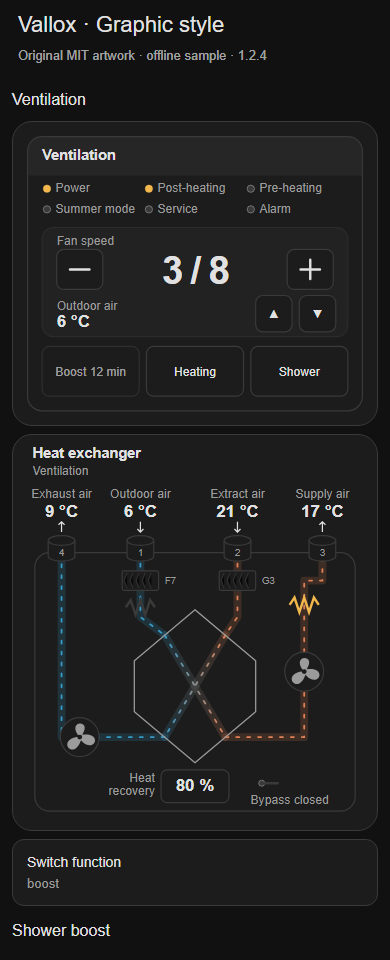
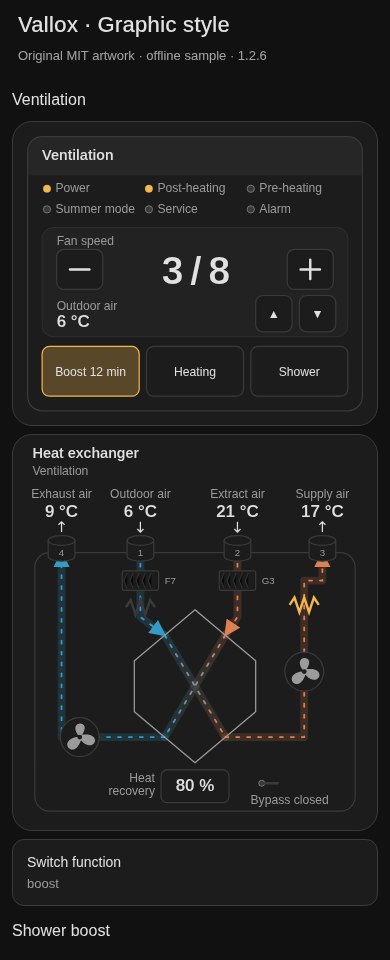
Vallox Dashboard 1.2.6: respect reduced motion with flow cues, show active buttons (#8)
The airflow and fans were stopping whenever the OS asked for reduced motion.
Windows reports that when Animation effects or "Animate controls and elements
inside windows" is off; Android does the same for Remove animations and some
battery-saver modes. Keep auto as the default, draw static flow-direction
arrows while motion is off, and add animation: on|off to force the behaviour.

Show the controller Boost, Heating and Shower buttons in the 1.2.1 flat
on-state when those modes are active (boost switch or remaining time,
climate heat, and the shower package helper or timer).

diff --git a/dist/vallox-dashboard.js b/dist/vallox-dashboard.js
@@ -8,7 +8,7 @@
  *   - vallox (Home Assistant core, Vallox MV units over the network)
  * Built-in cards plus original inline SVG graphics. MIT licensed.
  */
-const VALLOX_DASHBOARD_VERSION = "1.2.5";
+const VALLOX_DASHBOARD_VERSION = "1.2.6";
 
 const TEXT = {
   en: {
@@ -430,8 +430,13 @@ function graphicModel(hass, config = {}, readout = 0) {
     && Number.isInteger(p.minutes) && p.minutes > 0 && p.minutes <= 120);
   const boost = on("boost_switch") || number("boost_remaining") > 0;
   const usableClimate = graphicAvailable(state("climate"));
+  const animation = config.animation === "on" || config.animation === "off" ? config.animation : "auto";
+  const reduceMotion = typeof matchMedia === "function" && matchMedia("(prefers-reduced-motion: reduce)").matches;
   return { unit, e, t, g, config, value, number, on, flag, anyFlag, formatted, max, modes, level, power, alarm, efficiency,
-    readouts, selected, preset, boost, hass,
+    readouts, selected, preset, boost, hass, animation,
+    animate: animation === "on" || (animation === "auto" && !reduceMotion),
+    heating: value("climate") === "heat",
+    shower: on("shower_active") || value("shower_timer") === "active",
     fanPercentage: graphicAvailable(state("fan")) && graphicNumber(state("fan")?.attributes?.percentage) !== null
       ? `${graphicNumber(state("fan").attributes.percentage)} %` : null,
     canFan: usableClimate && level !== null && modes.length > 0,
@@ -446,7 +451,7 @@ const GRAPHIC_CSS = `
   :host { display:block; font-family:var(--primary-font-family, inherit); color:var(--primary-text-color,#212121);
     --line:var(--divider-color,#e0e0e0); --muted:var(--secondary-text-color,#727272);
     --surface:var(--ha-card-background,var(--card-background-color,#fff));
-    --active:var(--state-active-color,#e69b28); --cold:#369ac7; --warm:#df8054; }
+    --active:var(--state-active-color,#e69b28); --cold:#369ac7; --warm:#df8054; --speed:1.4s; }
   ha-card { display:block; box-sizing:border-box; background:var(--surface); border-radius:20px; overflow:hidden;
     border:1px solid var(--line); box-shadow:none; container-type:inline-size;
     width:100%; max-width:600px; margin-inline:auto; }
@@ -454,6 +459,7 @@ const GRAPHIC_CSS = `
   text { fill:currentColor; font-size:20px; } .muted { fill:var(--muted); font-size:20px; }
   .duct { fill:var(--surface); stroke:var(--line); stroke-width:2; }
   .body,.button { fill:var(--surface); stroke:var(--line); stroke-width:2; }
+  .button.on { fill:var(--active); fill-opacity:.28; stroke:var(--active); }
   .strip { fill:var(--line); opacity:.35; } .lcd { fill:var(--line); fill-opacity:.22; stroke:var(--line); }
   .big { font-size:64px; font-weight:600; letter-spacing:-3px; }
   .title { font-size:24px; font-weight:600; } .value { font-size:28px; font-weight:600; }
@@ -462,11 +468,14 @@ const GRAPHIC_CSS = `
   .led { fill:var(--line); stroke:var(--muted); } .lit { fill:var(--active); stroke:var(--active); }
   .warning { fill:var(--error-color,#db625a); } .button { cursor:pointer; }
   [role=button]:focus .button { stroke:var(--primary-color,#369ac7); stroke-width:3; }
-  [aria-disabled=true] { opacity:.65; cursor:default; } [role=button] text { pointer-events:none; }
+  [aria-disabled=true] { cursor:default; } [aria-disabled=true]:not([aria-pressed=true]) { opacity:.65; }
+  [role=button] text { pointer-events:none; }
   .pipe { fill:none; stroke-width:13; stroke-linecap:round; stroke-linejoin:round; opacity:.18; }
-  .flow { fill:none; stroke-width:3; stroke-dasharray:5 13; stroke-linecap:round; animation:flow var(--speed) linear infinite; }
+  .flow { fill:none; stroke-width:3; stroke-dasharray:5 13; stroke-linecap:round; stroke-dashoffset:0;
+    animation:flow var(--speed) linear infinite; }
   .cold { stroke:var(--cold); } .warm { stroke:var(--warm); }
-  .stopped { animation:none!important; opacity:.28; } .spin { animation:spin var(--speed) linear infinite; }
+  .stopped { animation:none!important; opacity:.28; } .static-cue { animation:none!important; }
+  .spin { transform-box:fill-box; transform-origin:center; animation:spin var(--speed) linear infinite; }
   .heater { stroke:var(--line); fill:none; stroke-width:4; } .hot { stroke:var(--active); }
   .cell { fill:var(--surface); stroke:var(--line); stroke-width:2; }
   .fin { stroke:var(--line); stroke-width:2; opacity:.7; } .badge { fill:var(--line); fill-opacity:.35; }
@@ -476,14 +485,22 @@ const GRAPHIC_CSS = `
   .recovery-label { fill:var(--muted); font-size:20px; }
   .error { padding:0 20px 12px; color:var(--error-color,#db625a); font-size:12px; }
   .error:empty { display:none; }
-  @keyframes flow { to { stroke-dashoffset:-36; } } @keyframes spin { to { transform:rotate(360deg); } }
-  @media(prefers-reduced-motion:reduce) { .flow,.spin { animation:none!important; } }
+  @keyframes flow { from { stroke-dashoffset:0; } to { stroke-dashoffset:-36; } }
+  @keyframes spin { from { transform:rotate(0deg); } to { transform:rotate(360deg); } }
+  @media(prefers-reduced-motion:reduce) {
+    :host(:not([data-animation="on"])) .flow, :host(:not([data-animation="on"])) .spin { animation:none!important; }
+  }
+  :host([data-animation="off"]) .flow, :host([data-animation="off"]) .spin { animation:none!important; }
+  :host([data-animation="on"]) .flow { animation:flow var(--speed) linear infinite !important; }
+  :host([data-animation="on"]) .spin { animation:spin var(--speed) linear infinite !important; }
+  :host([data-animation="on"]) .stopped, :host([data-animation="on"]) .static-cue { animation:none!important; }
 `;
 const svgText = (x, y, text, cls = "", anchor = "start") =>
   `<text x="${x}" y="${y}" class="${cls}" text-anchor="${anchor}">${escapeGraphic(text)}</text>`;
-function graphicButton(x, y, w, h, label, action, disabled = false, glyph = label) {
-  return `<g role="button" tabindex="${disabled ? -1 : 0}" aria-label="${escapeGraphic(label)}" aria-disabled="${disabled}" data-action="${action}">
-    <rect class="button" x="${x}" y="${y}" width="${w}" height="${h}" rx="12"/>
+function graphicButton(x, y, w, h, label, action, disabled = false, glyph = label, pressed = null) {
+  return `<g role="button" tabindex="${disabled ? -1 : 0}" aria-label="${escapeGraphic(label)}" aria-disabled="${disabled}"${
+    pressed === null ? "" : ` aria-pressed="${pressed}"`} data-action="${action}">
+    <rect class="button${pressed ? " on" : ""}" x="${x}" y="${y}" width="${w}" height="${h}" rx="12"/>
     ${["increase", "decrease"].includes(action)
       ? `<path class="control-symbol" d="M${x + w / 2 - 16} ${y + h / 2}h32${action === "increase" ? `M${x + w / 2} ${y + h / 2 - 16}v32` : ""}"/>`
       : svgText(x + w / 2, y + h / 2 + 7, glyph, "", "middle")}</g>`;
@@ -529,12 +546,12 @@ function renderControllerSvg(m) {
   content += '</g>';
   const actions = [];
   if (e.boost_switch) actions.push([m.boost ? `${g.boost} ${e.boost_remaining && m.config.show?.boost_remaining !== false ? m.formatted("boost_remaining", ` ${g.minutes}`) : g.active}` : g.boost, "boost",
-    m.boost || !graphicAvailable(m.hass?.states[e.boost_switch])]);
-  if (m.canHeat) actions.push([g.heat_action, "heat", false]);
+    m.boost || !graphicAvailable(m.hass?.states[e.boost_switch]), m.boost]);
+  if (m.canHeat) actions.push([g.heat_action, "heat", false, m.heating]);
   if (e.shower_boost && m.preset && m.config.show?.shower_boost !== false) actions.push([g.shower_action, "shower",
-    !graphicAvailable(m.hass.states[e.shower_boost])]);
-  content += '<g class="actions">' + actions.map(([label, action, disabled]) =>
-    graphicButton(48 + actions.findIndex((item) => item[1] === action) * 172, actionsY, 160, 82, label, action, disabled)).join("") + '</g>';
+    !graphicAvailable(m.hass.states[e.shower_boost]), m.shower]);
+  content += '<g class="actions">' + actions.map(([label, action, disabled, pressed]) =>
+    graphicButton(48 + actions.findIndex((item) => item[1] === action) * 172, actionsY, 160, 82, label, action, disabled, label, pressed)).join("") + '</g>';
   return graphicSvg(g.controller, content, m.duration, height);
 }
 
@@ -544,10 +561,18 @@ function renderExchangerSvg(m) {
   let content = svgText(32, 38, g.exchanger, "title") + svgText(32, 66, m.unit.name, "muted")
     + '<rect class="body unit-casing" x="36" y="194" width="528" height="426" rx="24"/>'
     + '<defs><linearGradient id="extract-gradient" gradientUnits="userSpaceOnUse" x1="350" y1="330" x2="250" y2="498"><stop stop-color="var(--warm)"/><stop offset="1" stop-color="var(--cold)"/></linearGradient>'
-    + '<linearGradient id="supply-gradient" gradientUnits="userSpaceOnUse" x1="250" y1="330" x2="350" y2="498"><stop stop-color="var(--cold)"/><stop offset="1" stop-color="var(--warm)"/></linearGradient></defs>'
+    + '<linearGradient id="supply-gradient" gradientUnits="userSpaceOnUse" x1="250" y1="330" x2="350" y2="498"><stop stop-color="var(--cold)"/><stop offset="1" stop-color="var(--warm)"/></linearGradient>'
+    + (m.animate ? "" : '<marker id="flow-arrow-cold" markerWidth="9" markerHeight="9" refX="8" refY="4.5" orient="auto"><path d="M0 0L9 4.5L0 9Z" fill="var(--cold)"/></marker><marker id="flow-arrow-warm" markerWidth="9" markerHeight="9" refX="8" refY="4.5" orient="auto"><path d="M0 0L9 4.5L0 9Z" fill="var(--warm)"/></marker>')
+    + '</defs>'
     + '<path data-component="cell" class="cell" d="' + cell + '"/>';
-  const stream = (name, path, color, motor, inCell = false, extra = "") => '<g style="' + (inCell ? 'stroke:url(#' + name + '-gradient)' : '') + '"><path class="pipe ' + color + '" d="' + path + '"/>'
-    + '<path data-' + (inCell ? 'cell-stream' : 'stream') + '="' + name + '" ' + extra + ' class="flow ' + color + ' ' + (m.running(motor) ? '' : 'stopped') + '" d="' + path + '"/></g>';
+  const stream = (name, path, color, motor, inCell = false, extra = "") => {
+    const running = m.running(motor);
+    const cue = !m.animate && running && !inCell && (color === "cold" || color === "warm");
+    return '<g style="' + (inCell ? 'stroke:url(#' + name + '-gradient)' : '') + '"><path class="pipe ' + color + '" d="' + path + '"/>'
+      + '<path data-' + (inCell ? 'cell-stream' : 'stream') + '="' + name + '" ' + extra
+      + ' class="flow ' + color + ' ' + (running ? (m.animate ? "" : "static-cue") : "stopped") + '"'
+      + (cue ? ' marker-end="url(#flow-arrow-' + color + ')"' : "") + ' d="' + path + '"/></g>';
+  };
   // Separate exterior lanes; every component is centred on its own continuous stream.
   content += stream("outdoor", bypass ? "M210 194V300H170" : "M210 194V300L250 330", "cold", "motor_in")
     + stream("extract", "M370 194V300L350 330", "warm", "motor_out")
@@ -574,7 +599,7 @@ function renderExchangerSvg(m) {
   if (e.outdoor) content += filter("F7",210,240,"supply");
   if (e.extract) content += filter("G3",370,240,"extract");
   const fan = (role, x, y, streamName) => !e[role] ? "" : '<g data-fan="' + role + '" data-on-stream="' + streamName + '" transform="translate(' + x + ' ' + y + ')"><circle class="body" r="32" fill="var(--surface)"/>'
-    + '<g data-motor="' + role + '" class="' + (m.running(role) ? 'spin' : 'stopped') + '"><path fill="var(--muted)" d="M0 0C-24-28 22-30 4-4C40-9 24 30 2 5C-10 40-38 6-5 0Z"/></g><circle r="4" fill="var(--surface)"/></g>';
+    + '<g data-motor="' + role + '" class="' + (m.running(role) ? (m.animate ? "spin" : "") : "stopped") + '"><path fill="var(--muted)" d="M0 0C-24-28 22-30 4-4C40-9 24 30 2 5C-10 40-38 6-5 0Z"/></g><circle r="4" fill="var(--surface)"/></g>';
   content += fan("motor_in",480,390,"supply") + fan("motor_out",110,498,"extract")
     + '<path class="cell-outline" d="' + cell + '"/>';
   const heater = (role, x, y) => !e[role] ? "" : '<g data-on-stream="supply"><title>' + escapeGraphic(t[role]) + '</title><path data-heater="' + role + '" class="heater ' + (m.on(role) ? 'hot' : '') + '" d="M' + (x-24) + ' ' + y + 'l8 -12 8 24 8 -24 8 24 8 -24 8 12"/></g>';
@@ -625,7 +650,17 @@ class ValloxGraphicCard extends HTMLElement {
     const m = graphicModel(this._hass, this._config, this._readout);
     return m;
   }
+  _watchMotion() {
+    if (this._mq || typeof matchMedia !== "function") return;
+    this._mq = matchMedia("(prefers-reduced-motion: reduce)");
+    this._onMotion = () => { this._signature = null; if (this._hass) this.hass = this._hass; };
+    if (this._mq.addEventListener) this._mq.addEventListener("change", this._onMotion);
+    else this._mq.addListener(this._onMotion);
+  }
   _render(m = this._model()) {
+    this._watchMotion();
+    if (typeof this.setAttribute === "function") this.setAttribute("data-animation", m.animation);
+    if (this.style && typeof this.style.setProperty === "function") this.style.setProperty("--speed", m.duration);
     const focused = this.shadowRoot.activeElement?.getAttribute("data-action");
     this.shadowRoot.innerHTML = `<style>${GRAPHIC_CSS}</style><ha-card>${
       this._config.view === "controller" ? renderControllerSvg(m) : renderExchangerSvg(m)
@@ -682,6 +717,7 @@ function graphicOverview(hass, u, t, config) {
     ...(view === "exchanger" ? { show_status: show.controller === false } : {}),
     entities: { ...Object.fromEntries(Object.keys(PACKAGE_ENTITIES).map((r) => [r, null])), ...u.e }, show: { ...show },
     ...(config.shower_boost_presets ? { shower_boost_presets: config.shower_boost_presets } : {}),
+    ...(config.animation === "on" || config.animation === "off" ? { animation: config.animation } : {}),
   }));
   // Pair consecutive half-width entity tiles within each row group. Other cards
   // end the group and must never acquire tile grid options (especially headings).

diff --git a/tools/render/index.html b/tools/render/index.html
@@ -22,7 +22,7 @@
   .heading { font-size:16px; margin:8px 0 4px; }
   #actions { font-size:12px; margin:16px 6px; }
 </style>
-<header><h1>Vallox · Graphic style</h1><p>Original MIT artwork · offline sample · 1.2.5</p></header>
+<header><h1>Vallox · Graphic style</h1><p>Original MIT artwork · offline sample · 1.2.6</p></header>
 <main id="cards"></main><div id="actions" role="status"></div>
 <script src="sample-data.js"></script>
 <script src="../../dist/vallox-dashboard.js"></script>
@@ -37,9 +37,18 @@
   hass.callService = async (...args) => { document.querySelector("#actions").textContent = JSON.stringify(args); };
   if (params.get("variant") === "bypass") hass.states["binary_sensor.ventilation_summer_mode"].state = "on";
   if (params.get("variant") === "stopped") hass.states["binary_sensor.ventilation"].state = "off";
+  if (params.get("variant") === "active") {
+    hass.states["switch.ventilation_switch"].state = "on";
+    hass.states["sensor.ventilation_boost_remaining"].state = "12";
+    hass.states["climate.ventilation"].state = "heat";
+    hass.states["input_boolean.vallox_shower_boost_active"].state = "on";
+    hass.states["timer.vallox_shower_boost"].state = "active";
+  }
+  const animation = ["on", "off"].includes(params.get("animation")) ? params.get("animation") : undefined;
   // Render the strategy's own leading cards, through the next group heading.
-  const configs = params.has("view") ? [{type:"custom:vallox-graphic-card",view:params.get("view"),grid_options:{columns:12,rows:"auto"}}]
-    : window.valloxDashboard.buildSection(hass, {style:"graphic",section:"overview"}).cards;
+  const configs = params.has("view")
+    ? [{type:"custom:vallox-graphic-card",view:params.get("view"),grid_options:{columns:12,rows:"auto"},...(animation?{animation}:{})}]
+    : window.valloxDashboard.buildSection(hass, {style:"graphic",section:"overview",...(animation?{animation}:{})}).cards;
   let graphics = 0;
   for (const config of configs) {
     const graphic = config.type === "custom:vallox-graphic-card";

diff --git a/README.md b/README.md
@@ -4,7 +4,7 @@
 [![Release](https://img.shields.io/github/v/release/silviuk/vallox-dashboard.svg)](https://github.com/silviuk/vallox-dashboard/releases)
 [![Validate](https://github.com/silviuk/vallox-dashboard/actions/workflows/validate.yml/badge.svg)](https://github.com/silviuk/vallox-dashboard/actions/workflows/validate.yml)
 
-A Lovelace UI for **Vallox ventilation units** (MVHR / heat-recovery ventilation). Current release: **1.2.5**.
+A Lovelace UI for **Vallox ventilation units** (MVHR / heat-recovery ventilation). Current release: **1.2.6**.
 
 It ships as **section, view and dashboard strategies** under `custom:vallox-ventilation`. The UI discovers your entities and skips anything missing or disabled, so there is nothing you have to wire up by hand. The default style uses built-in Home Assistant cards (tile, heading, button, history-graph, markdown). An opt-in graphic style adds one bundled custom card with original inline SVG artwork.
 
@@ -34,7 +34,7 @@ Supported integrations (auto-discovered):
 - **Temperature flow strip:** outdoor → supply, heat recovery, extract → exhaust, when all four temperatures exist. Defaults on for units that already expose 1.2 extras; older units keep their original layout unless you opt in.
 - **Optional shower boost:** timed fan-level buttons, plus countdown and cancel while active, when the package entities exist.
 - **Optional auto humidity boost:** enable toggle and helper tiles when those helpers exist.
-- **Graphic style (1.2.5):** digital controller panel and heat-exchanger diagram (see below).
+- **Graphic style (1.2.6):** digital controller panel and heat-exchanger diagram (see below).
 - English and German labels, taken from your Home Assistant language. Light and dark themes follow HA CSS variables.
 
 ## Installation
@@ -98,6 +98,7 @@ All options are optional and work for every strategy type.
 | `entities` | auto | Override or add entities by role, e.g. `outdoor: sensor.my_outdoor_temp`. Set a role to `null` to hide it. |
 | `show` | see below | Turn each group off independently. Existing groups are unaffected. |
 | `shower_boost_presets` | 15 min L6, 15 min L7, 30 min L6, 30 min L7 | List of `{minutes, level}` objects. Whole minutes 1–120 and fan levels 1–8; invalid entries are skipped. `[]` removes preset buttons. Your script must support the chosen values. |
+| `animation` | `auto` | Graphic style only. `auto` plays the airflow and fan animation unless the device asks for reduced motion; `on` always plays it; `off` never does and shows static flow-direction arrows instead. |
 
 Roles for `entities`: `climate`, `fan`, `boost_switch`, `switch_type`, `profile`, `profile_duration`, `fan_speed`,
 `outdoor`, `supply`, `extract`, `exhaust`, `supply_cell`, `efficiency`, `humidity`, `humidity_2`, `co2`,
@@ -209,12 +210,13 @@ You can also generate one for your own entities in the browser console of your d
 
 ## Graphic style
 
-Add `style: graphic` to any section, view or dashboard strategy (1.2.0+; phone layout and artwork updated in 1.2.3; neutral gray palette in 1.2.4; wide-layout animation size in 1.2.5):
+Add `style: graphic` to any section, view or dashboard strategy (1.2.0+; phone layout and artwork updated in 1.2.3; neutral gray palette in 1.2.4; wide-layout size cap in 1.2.5; tablet animation option and active buttons in 1.2.6):
 
 ```yaml
 strategy:
   type: custom:vallox-ventilation
   style: graphic
+  animation: auto    # auto | on | off
   show:
     controller: true
     exchanger: true
@@ -225,6 +227,7 @@ Both graphics are also available directly, using the same resource:
 ```yaml
 type: custom:vallox-graphic-card
 view: controller   # or exchanger
+# animation: auto            # auto | on | off
 # device_id: your_device_id
 # name: Ventilation
 # show_status: true          # exchanger only; default true
@@ -245,16 +248,19 @@ The card picker lists **Vallox graphic**; change `view` in YAML to select the ex
 
 ### Digital controller
 
-The 1.2.5 controller keeps the 1.2.4 neutral gray surfaces with the 1.2.3 flat panel, header strip, LCD and rounded rectangular buttons, and the full-width phone sizing introduced in 1.2.2. On tablets and laptops the drawing is centred and capped at 600 px so the whole panel stays visible.
+The 1.2.6 controller keeps the 1.2.4 neutral gray surfaces with the 1.2.3 flat panel, header strip, LCD and rounded rectangular buttons, and the full-width phone sizing introduced in 1.2.2. On tablets and laptops the drawing is centred and capped at 600 px so the whole panel stays visible.
 The panel shows a read-only power indicator and available heater, bypass, service,
 alarm, CO₂ and humidity indicators. Its LCD shows fan level with adjacent −/+ controls and a secondary readout;
 ▲/▼ cycle available temperatures, recovery, built-in boost time and fault code locally.
 The +/− buttons call `climate.set_fan_mode` with string modes from `"1"` to `"8"`,
 bounded by the advertised `fan_modes` and `maximum_fan_speed`. Sparse advertised modes
 are stepped through in order. Heating toggles `heat` / `fan_only` only when both modes
-are advertised. Boost calls only `switch.turn_on`: an active boost is disabled because
-vallox2mqtt cannot cancel it from HA. The shower button calls the first valid
-`shower_boost_presets` entry (default 15 minutes, level 6) when the package script exists.
+are advertised, and the button shows the 1.2.1 flat on-state (soft accent fill, `aria-pressed`)
+while `climate` is in `heat`. Boost calls only `switch.turn_on`: an active boost stays
+on-state but disabled because vallox2mqtt cannot cancel it from HA (the switch is on
+or `boost_remaining` is greater than zero). The shower button calls the first valid
+`shower_boost_presets` entry (default 15 minutes, level 6) when the package script exists,
+and shows as on while `shower_active` is on or the shower timer is `active`.
 All writes require a click/tap or Enter/Space; no service is called while rendering.
 
 ### Heat exchanger
@@ -275,7 +281,15 @@ Directional dashed streams and fan animation follow fan level and stop when the 
 or the corresponding motor is off. On wide tablet and laptop layouts the drawing stays
 within 600 px (the SVG viewBox width) and is centred in the card, so the complete airflow
 and fans stay in view at the designed size; on a phone the card still fills the column.
-Reduced-motion preferences disable all animation.
+The `animation` option defaults to `auto`: the streams and fans move unless the browser
+or OS asks for reduced motion. Windows reports this when **Animation effects** or
+**Animate controls and elements inside windows** is off (`SPI_GETCLIENTAREAANIMATION`).
+Android does the same for **Remove animations**, animator duration scale off, or some
+battery-saver modes. In that case the dashes stop and static arrowheads still show the
+flow direction. Set `animation: on` on the strategy or card if you want the subtle
+motion anyway; `animation: off` always uses the static arrows. After an update, reset
+the Home Assistant Companion frontend cache or hard-refresh the browser if a device
+still shows an older build.
 Temperatures, recovery, heating, bypass, boost and alarm highlights update from HA states.
 
 ### Roles used by the graphics
@@ -288,7 +302,7 @@ Temperatures, recovery, heating, bypass, boost and alarm highlights update from 
 | Fans / heaters / bypass | `motor_in`, `motor_out`, `front_heating`, `post_heating`, `summer_mode` |
 | Service / alarms | `service_needed`, `filter_warning`, `error_relay`, `cell_freeze_alarm`, `fault_code` > 0 |
 | Built-in boost | `boost_switch`, `boost_remaining` (minutes) |
-| Optional indicators / shower | `co2`, `humidity`, `humidity_2`, `shower_boost` |
+| Optional indicators / shower | `co2`, `humidity`, `humidity_2`, `shower_boost`, `shower_active`, `shower_timer` |
 
 Missing roles are omitted; unavailable numeric readings show **—**. Recovery is an
 estimate unless an efficiency sensor exists. Indicators show reported states, not sensor
@@ -314,7 +328,7 @@ component orientation; no manual or GPL Helios/Vallox artwork or code is include
 
 Offline preview and screenshot instructions: [tools/render](tools/render/README.md).
 The harness uses sanitized fixture samples (6/17/21/9 °C, level 3, post-heat on,
-12 minutes of built-in boost); its buttons record mock service calls only.
+12 minutes of built-in boost, so the Boost button appears on); its buttons record mock service calls only.
 
 | Light theme | Dark theme |
 |---|---|

diff --git a/tools/render/README.md b/tools/render/README.md
@@ -1,8 +1,9 @@
 Open `index.html` directly in a browser. All resources are local. No server, dependencies,
 fonts, remote images, or Home Assistant connection are used. Buttons only log mock calls.
 
-Query options: `?theme=dark`, `?lang=de`, `?variant=bypass`, `?variant=stopped`,
-`?layout=phone` (390 px), `?layout=wide` (1280 px), and `?view=controller` / `?view=exchanger`; combine with `&`.
+Query options: `?theme=dark`, `?lang=de`, `?variant=bypass`, `?variant=stopped`, `?variant=active`
+(all three action buttons on), `?animation=on|off`, `?layout=phone` (390 px), `?layout=wide` (1280 px),
+and `?view=controller` / `?view=exchanger`; combine with `&`.
 Regenerate sanitized sample data with `node tools/render/generate.mjs`.
 
 The phone preview uses a 12-column sections grid and the strategy's own
@@ -32,7 +33,8 @@ The script captures and trims all five PNGs to the measured content bounds autom
 Final widths are 536 px for desktop and 390 px for phone; heights follow content.
 The script prints each final size. No manual cropping is needed.
 
-Animation respects the operating system's reduced-motion preference. The default paired
+Animation respects the operating system's reduced-motion preference unless `?animation=on`
+is set; `?animation=off` always shows the static flow-direction arrows. The default paired
 preview hides duplicate exchanger status, matching the strategy; `?view=exchanger`
 shows standalone fan/boost badges. Keep the same sample data. This is development
 tooling only; HA loads only `dist/vallox-dashboard.js`.

diff --git a/CHANGELOG.md b/CHANGELOG.md
@@ -1,5 +1,12 @@
 # Changelog
 
+## 1.2.6
+
+- Keep the airflow and fan animation playing by default, but respect `prefers-reduced-motion` (Windows "Animation effects" / "Animate controls and elements inside windows" off, Android "Remove animations", and similar settings). While motion is off, static arrowheads still show the flow direction.
+- Add graphic option `animation: auto|on|off` (default `auto`) so the subtle motion can be forced on or off. `on` overrides reduced motion.
+- Show the controller Boost, Heating and Shower buttons in a flat 1.2.1 on-state (soft accent fill, `aria-pressed`) when that mode is active: built-in boost switch or remaining time, climate `heat`, and the shower package helper or timer.
+- Preserve the 1.2.5 layout and look: 1.2.1 flat artwork, neutral gray fallbacks, 600 px wide-layout cap, full-width stacked phone cards and the ValloPlus exchanger shape.
+
 ## 1.2.5
 
 - Cap graphic cards at the designed 600 px drawing width and centre them on wider tablet and laptop layouts, so the complete airflow and fan animation stays visible. Phone cards still fill their column.
